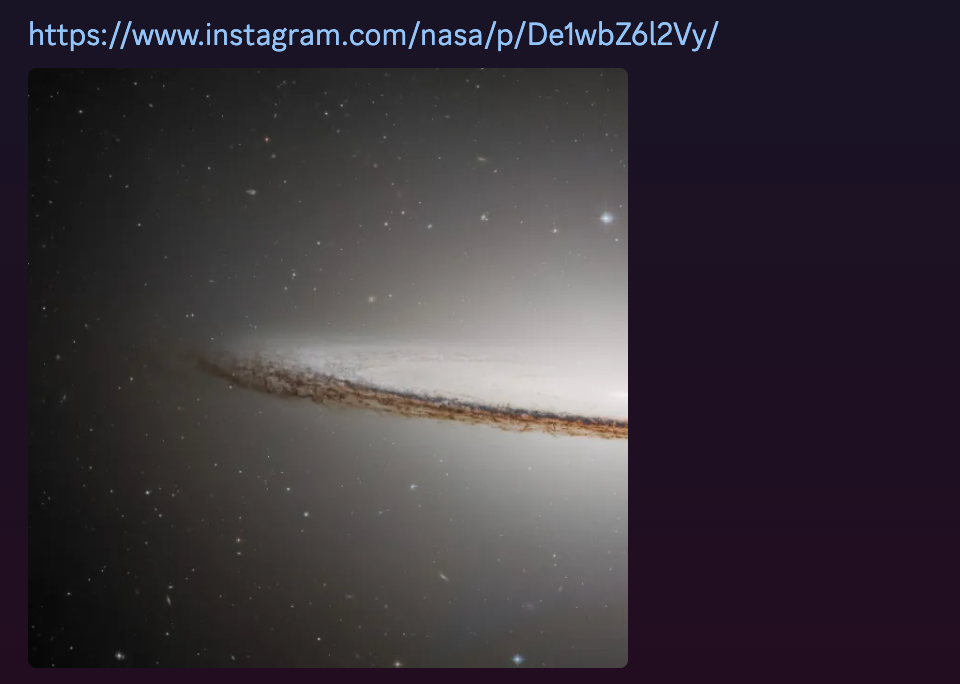
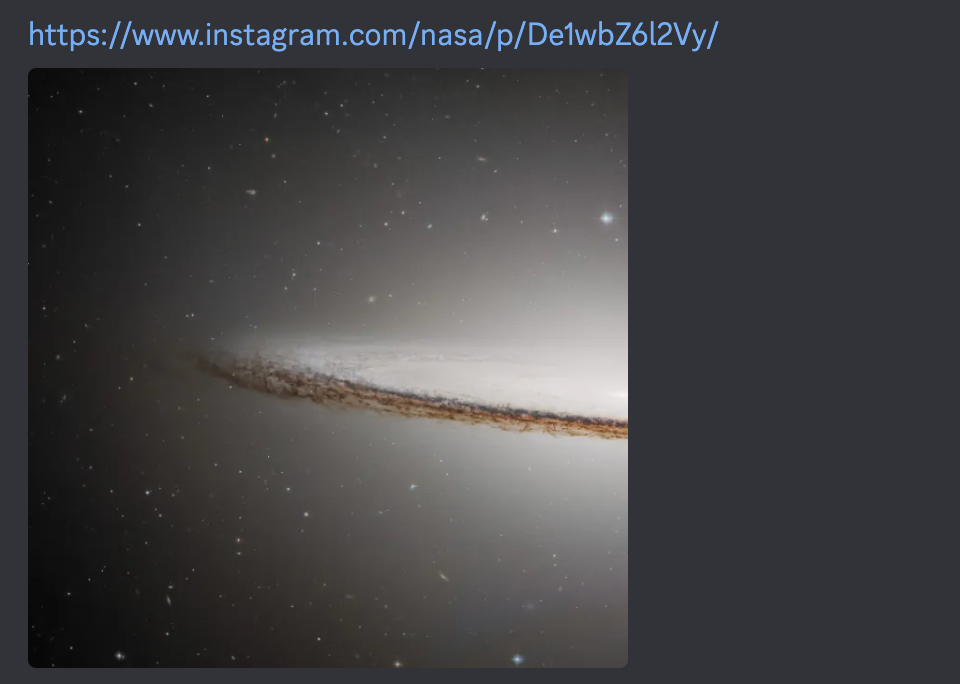
docs(store): captures Discord avec le thème sombre standard

diff --git a/store/scenes.html b/store/scenes.html
@@ -77,7 +77,7 @@
     .tag { align-self: flex-start; padding: 6px 12px; border-radius: 999px; font-size: 13px; font-weight: 700; }
     .tag.bad { background: rgba(255, 255, 255, .08); color: var(--muted); }
     .tag.good { background: var(--grad); color: #fff; }
-    .frame.discord { background: linear-gradient(180deg, #171628 0%, #20122a 100%); padding: 10px 12px; }
+    .frame.discord { background: #323338; padding: 10px 12px; }
     .frame.discord .link { color: #6fb3f7; font-size: 13.5px; padding: 0 2px 6px; }
     .note { font-size: 14px; color: var(--muted); padding-left: 4px; }
     .popup-shot { width: 440px; border-radius: 14px; box-shadow: 0 40px 90px rgba(0, 0, 0, .6), 0 0 0 1px var(--line); }
